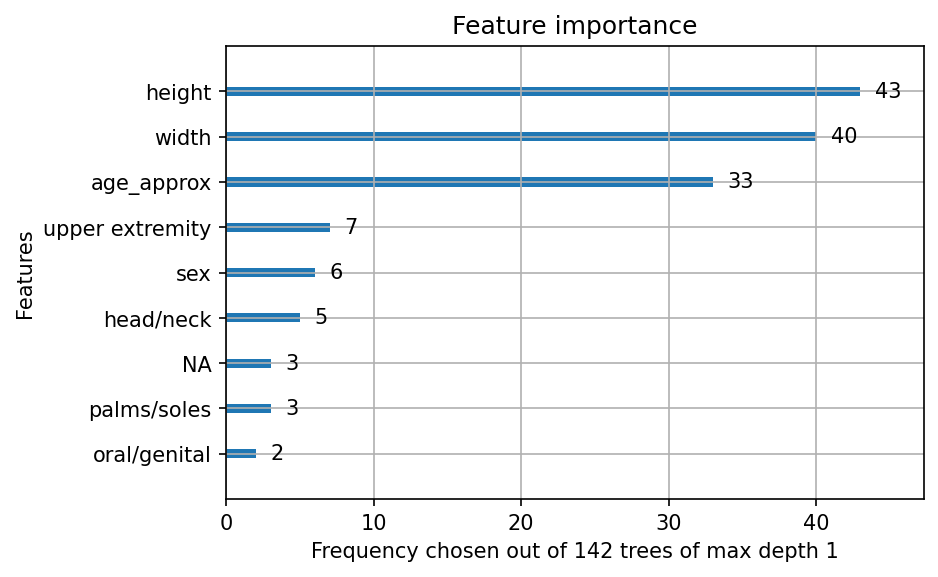
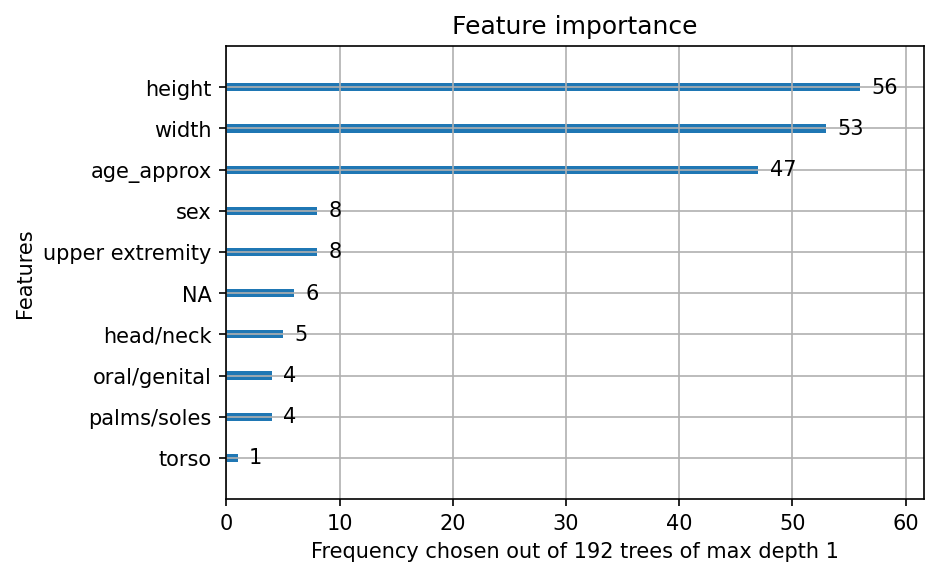
feature importance

diff --git a/_posts/2020-08-12-Kaggle-melanoma-tabular-model.md b/_posts/2020-08-12-Kaggle-melanoma-tabular-model.md
@@ -53,8 +53,14 @@ params_randoversamp = {
     'classification__eta': [0.0001, 0.001, 0.01, 0.1, 1],
     'classification__gamma': [0, 1, 2, 3, 4, 5],
     'classification__max_depth': [x for x in range(1, 11)],
-    'classification__n_estimators': [100, 300, 500, 700, 900]
+    'classification__n_estimators': [50, 100, 150, 200]
 }
+
+cv_iterator_int = []
+skf = KFold(n_splits=5, shuffle=True, random_state=SEED)
+for i, (idxT,idxV) in enumerate(skf.split(np.arange(15))):
+    cv_iterator_int.append((train_internal.tfrecord.isin(idxT), 
+                        train_internal.tfrecord.isin(idxV)))
 
 grid_randoversamp = RandomizedSearchCV(estimator=model_randoversamp, 
                           param_distributions=params_randoversamp, 
@@ -68,7 +74,7 @@ grid_randoversamp = RandomizedSearchCV(estimator=model_randoversamp,
 
 ### Results
 
-This took 10.1 minutes to train on my local machine and the best performing set of parameters achieved a validation AUC-ROC of $$0.83$$, which was better than I expected. This model had a sampling strategy of $$0.3$$, meaning the malignant cases were resampled to bring their proportion up to $$30\%$$ of the training data. The eta parameter used was $$0.1$$ and this is a regularization constraint, for which larger values shrink the weights of new features added to trees. The gamma parameter chosen was 4, which is the minimum loss decrease, for a further partition to be made in a decision tree. The maximum depth of the trees chosen was 2 and this is the maximum number of decisions until a classification is made. Finally, the number of decision trees used was 100.
+This took 11.2 minutes to train on my local machine and the best performing set of parameters achieved a validation AUC-ROC of $$0.83$$, which was better than I expected. This model had a sampling strategy of $$0.3$$, meaning the malignant cases were resampled to bring their proportion up to $$30\%$$ of the training data. The eta parameter used was $$0.1$$ and this is a regularization constraint, for which larger values shrink the weights of new features added to trees. The gamma parameter chosen was 4, which is the minimum loss decrease, for a further partition to be made in a decision tree. The maximum depth of the trees chosen was 2 and this is the maximum number of decisions until a classification is made. Finally, the number of decision trees used was 100.
 
 When this classifier was used on the test data, the classifier achieved a score of $$0.7981$$ on the public Kaggle leaderboard. Impressive for a purely tabular model in my opinion. Usually, it is a big no-no to assess a model on the test set before making the final selection. However, this is a Kaggle contest and it's nice to see how a model does on the leaderboard. More tabular models will be trained and really we should choose the best based on their performance on the cross-validated dataset before making predictions once on the test data.
 
@@ -95,7 +101,7 @@ SMOTE stands for synthetic minority oversampling technique. This technique rando
 
 An obvious issue is that when the minority and majority classes overlap significantly (are not separable) then these new synthetic datapoints may not be representative of the minority class. A second issue is the computation required to generate new samples. Finding $$k$$-nearest neighbors can be time exhaustive so this sampling technique is expected to take longer than random over-sampling.
 
-The randomized search took longer this time as SMOTE sampling is more computationally expensive and as it happens, had a lower best AUC-ROC score of $$0.8219$$ and $$0.7900$$ on the Kaggle public leaderboard.
+The randomized search took longer this time as SMOTE sampling is more computationally expensive and as it happens, had a lower best AUC-ROC score of $$0.8218$$ and $$0.7664$$ on the Kaggle public leaderboard.
 
 ## More Data
 
@@ -116,7 +122,7 @@ for i, (idxT,idxV) in enumerate(skf.split(np.arange(15))):
 
 Chris Deotte who put together the datasets found some patient entries in both the 2019 and 2020 datasets. He highlighted these with a `-1` in the `tfrecord` column. The above code ensures these are not used for training.
 
-The model with external data performed slightly worse than the model using just the internal data.
+The model with external data performed slightly worse than the model using just the internal data. Due to this model taking longer (17.2 minutes) than just the internal data but not giving an improved performance I decided to stick to just the internal data.
 
 ## Parameter Refining
 
@@ -124,15 +130,13 @@ In a final effort to squeeze some increased performance out of the classifier an
 
 * Sampling proportion 0.3 Uniform(low=0.1, high=0.5)
 * Eta (regularization) 0.1 Gamma(shape=2, scale=0.05)
-* Gamma (minimum loss) 4 Gamma(shape=2, scale=2)
+* Gamma (minimum loss) 4 Gamma(shape=2, scale=1)
 * Maximum depth of tree 2 RandomInt(low=1, high=3)
 * Number of estimators 100 RandomInt(low=50, high=150)
 
 It should be fairly clear why the uniform and random integer distributions were used. The gamma distribution was chosen for eta and gamma, as these variables are continuous and may take values in the range $$[0, \infty)$$ which is the same as the gamma distributuion. It looks like a skewed normal distribution which cannot go negative which is appropriate for these variables. The mean of a gamma distribution is shape $$\times$$ scale.
 
-For example, a random sample of $$25$$ values from Gamma(shape=2, scale=2) gave: 4.16200782, 4.78013484, 2.78268383, 3.52807528, 7.60847632, 8.69564004, 6.1258422 , 2.89771016, 2.10044363, 0.44427182, 5.0764685 , 3.87984299, 1.72199083, 4.773591  , 3.51366612, 3.63235669, 5.74539046, 2.63842483, 3.32101361, 0.69189948, 2.02039114, 9.40518265, 7.79320054, 2.70690933, 6.23665766.
-
-It took 7.3 minutes to train this model and its score on the validation data was $$0.8310$$ which suggests better performance. Indeed this model did better on the Kaggle leaderboard scoring $$0.8176$$.
+It took 13.4 minutes to train this model, looking at 200 possible combinations of parameters and its score on the validation data was $$0.8313$$ which suggests better performance. Indeed this model did better on the Kaggle leaderboard scoring $$0.8176$$.
 
 ## Insight From The Model
 
@@ -140,7 +144,7 @@ Another great feature of gradient boosted trees, is that we may examine which va
 
 <center><img src="{{ site.url }}{{ site.baseurl }}/images/kaggle-melanoma/feature_importance.png" class="center" alt="Feature importance bar chart for the final tabular model."></center>
 
-The final model had maximum depth $$1$$, so the this bar plot shows which of the $$142$$ estimators was based on each variable. The height and width of the original full resolution image were the best predictors, with age being the third best.
+The final model had maximum depth $$1$$, so the this bar plot shows which of the $$192$$ estimators was based on each variable. The height and width of the original full resolution image were the best predictors, with age being the third best.
 
 Here are some example trees:
 
